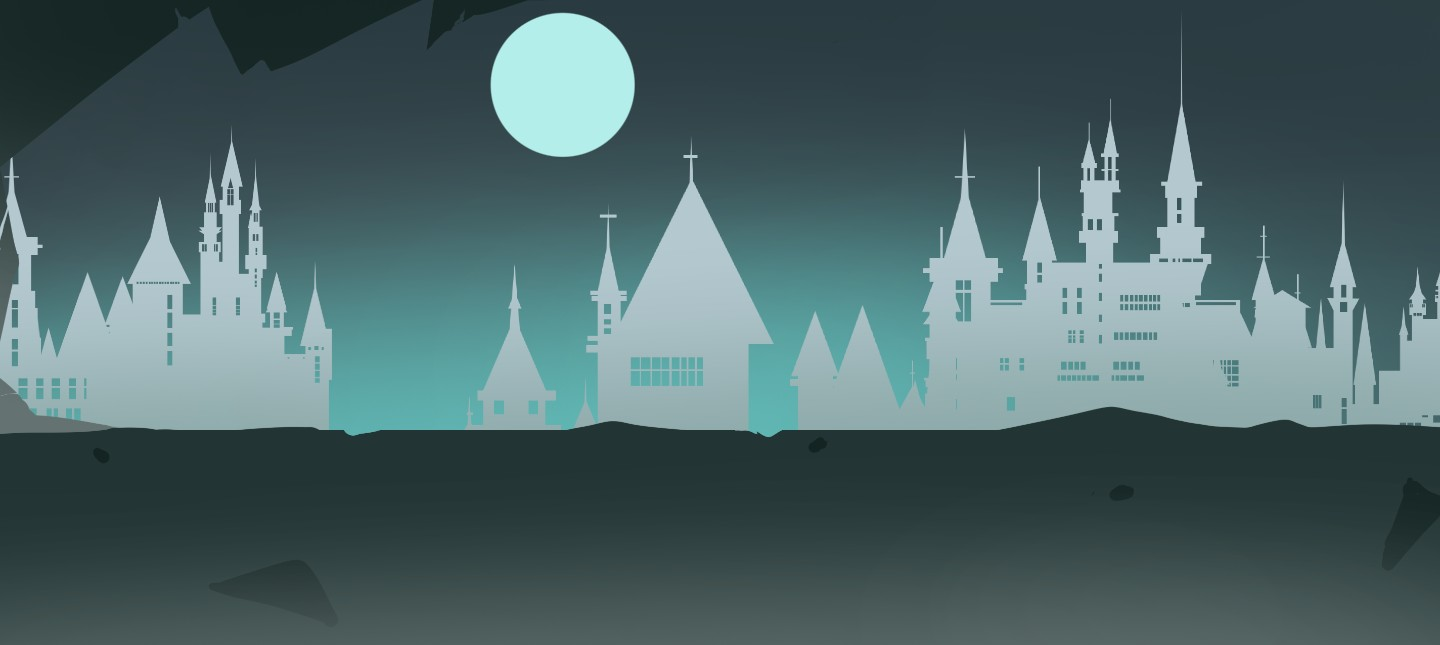
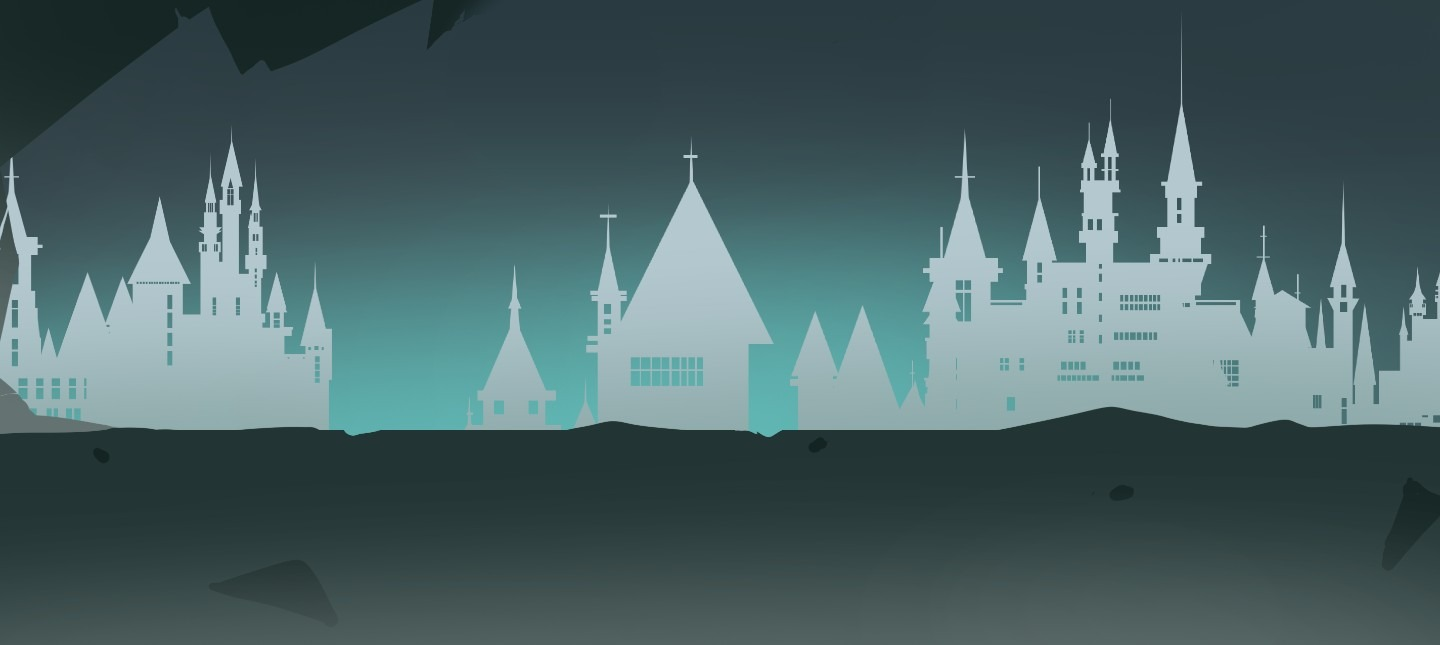
界面布局修复：开屏标题恢复大字 + 背景月亮光斑根除
- BootScreen：PopIn 参数顺序修正（签名 delay,from,dur），删掉 Punch——
  它在 Build 期捕获 baseScale（此时 PopIn 刚把缩放压到 from），
  延迟触发后把标题永久钉在 0.3 倍，标题只剩徽章大小
- bg_main.jpg：顶部正中的月亮从原图补掉（同行右侧天空采样 + feather 过渡），
  根治设置/图鉴/主页顶栏后透光斑的问题——均匀 veil/渐变遮罩
  对月亮与天空同乘系数，相对对比度不变，数学上不可能消除
- Screen.BuildHeader：头部栏不透明度 0.92 → 0.97
- 原图备份 .workbuddy/backup/2026-11-21/bg_main.jpg

Changed region(s): [[0.3125, 0.0, 0.4688, 0.2481]]

diff --git a/Assets/Scripts/Game/Screens/BootScreen.cs b/Assets/Scripts/Game/Screens/BootScreen.cs
@@ -54,8 +54,11 @@ namespace Slime.Game
             AddOutline(title.gameObject, new Color(0.03f, 0.08f, 0.10f, 0.85f), 3f);
             Ui.Fixed(title.rectTransform, new Vector2(0.5f, 0.5f), new Vector2(0.5f, 0.5f),
                 new Vector2(0f, 386f), new Vector2(1200f, 84f));
-            Tween.PopIn(title.rectTransform, 0.15f, 0.3f, 0.5f);
-            Tween.Punch(title.rectTransform, 0.10f, 0.30f, 0.62f);
+            // PopIn 签名是 (rt, delay, from, dur)。落地挤压不再叠 Punch——
+            // Punch 在 Build 期捕获 baseScale（此刻 PopIn 刚把缩放压到 from），
+            // 延迟触发后会把标题按 from 倍永久钉死，标题只剩徽章大小。
+            // OutBack 曲线自带落地质感，无需叠加。
+            Tween.PopIn(title.rectTransform, 0.15f, 0.5f, 0.3f);
             Tween.FadeIn(title, 0.30f, 0.15f, 0f, 1f);
 
             // 副标题徽章：金框石板胶囊，第二波淡入

diff --git a/Assets/Scripts/Game/GameApp.cs b/Assets/Scripts/Game/GameApp.cs
@@ -188,9 +188,8 @@ namespace Slime.Game
                 bgArtImage.raycastTarget = false;
                 FitBackground(bgArt);
 
-                // 顶部压暗必须是一条竖直渐变，不能再用径向 Glow：背景图里的月亮
-                // 正好落在标题栏左侧，径向光只会把正中间压暗，月亮照样亮着，
-                // 于是「设置」「档案室」这些标题和标签栏整条都糊在月亮上。
+                // 顶部压暗必须是一条竖直渐变，不能再用径向 Glow：径向光只会把正中间压暗，
+                // 两边照样亮着。月亮本身已从 bg_main 原图补掉（backup/2026-11-21/）。
                 var shadeTop = Ui.Panel("BgShadeTop", BackgroundLayer,
                     SpriteForge.Scrim(32, 256, Theme.BgDeep, 0.92f, 0f), Color.white);
                 shadeTop.raycastTarget = false;

diff --git a/Assets/Scripts/Game/Screen.cs b/Assets/Scripts/Game/Screen.cs
@@ -81,7 +81,7 @@ namespace Slime.Game
         protected RectTransform BuildHeader(string title, string subtitle, string backCaption)
         {
             var header = Ui.Rounded("Header", Root, Theme.RadiusM,
-                Theme.WithAlpha(Theme.Panel, 0.92f), Theme.Border, 1);
+                Theme.WithAlpha(Theme.Panel, 0.97f), Theme.Border, 1);
             Ui.Fixed(header.rectTransform, new Vector2(0.5f, 1f), new Vector2(0.5f, 1f),
                 new Vector2(0f, -EdgeMargin), new Vector2(HeaderW, HeaderH));
 
